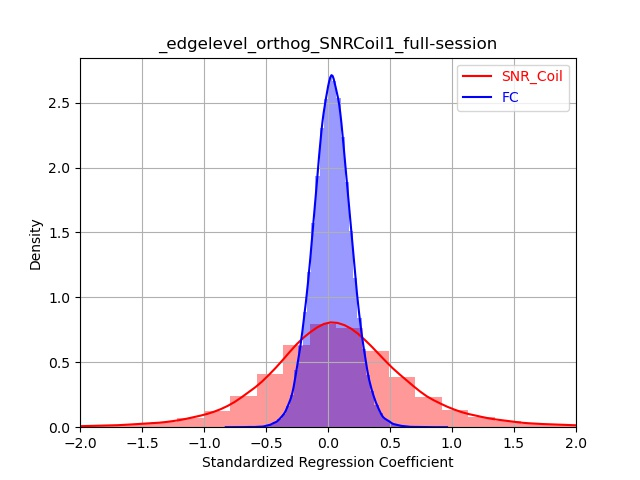
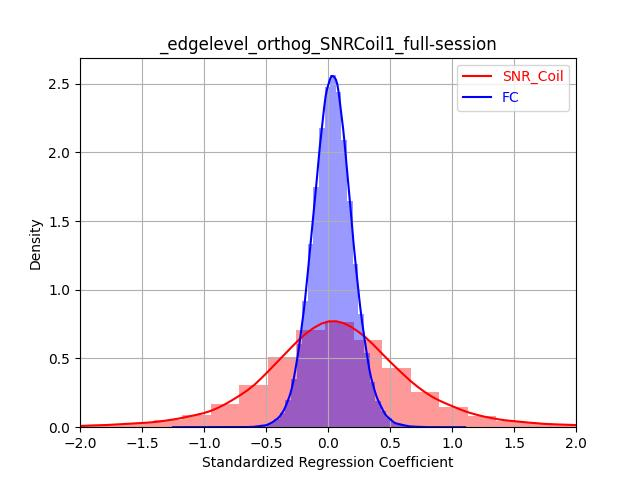
Revisions

diff --git a/REGRESSOR/regressor_py/F_regressors_split.py b/REGRESSOR/regressor_py/F_regressors_split.py
@@ -16,12 +16,12 @@ def loadsnr(snrtrue):
     # Loading SNR values for two splits per session
     # for all sessions of the 48 particpants with both preterm and term sessions
     if snrtrue:
-        snr_all = np.load('/dhcp/fmri_anna_graham/GKgit/snr_npy/192_snrtrue.npy')
+        snr_all = np.load('/dhcp/fmri_anna_graham/GKgit/snr_npy/176_snrtrue.npy')
     else:
-        snr_all = np.load('/dhcp/fmri_anna_graham/GKgit/snr_npy/192hp_snr.npy')
+        snr_all = np.load('/dhcp/fmri_anna_graham/GKgit/snr_npy/176hp_snr.npy')
     mz=snr_all.shape
     print('starting snr_all shape is:')
-    print(mz) #snr_all has shape [48, 2, 2, 387]
+    print(mz) #snr_all has shape [44, 2, 2, 387]
     print()
     nsubj=mz[0]
     nsess=mz[1]
@@ -33,7 +33,7 @@ def loadsnr(snrtrue):
 
     snr_all_reshaped=np.reshape(snr_all, (nsubj*nsess*nhp, nroi))
     print('The shape of snr_all_reshaped is:')
-    print(snr_all_reshaped.shape) # snr_all_reshaped has shape [192, 387]
+    print(snr_all_reshaped.shape) # snr_all_reshaped has shape [176, 387]
     print()
 
     ## Products/edges of SNR values (to match the format of the original snr products used to deduce the OLS parameters c and m):
@@ -42,7 +42,7 @@ def loadsnr(snrtrue):
         snr=snr_all_reshaped[ind,:]
         snrbysnr[ind,:,:]=np.outer(snr, snr) #instead of using snr*snr.T
     print('The shape of snrbysnr is:')
-    print(snrbysnr.shape) # This is [192,387,387]
+    print(snrbysnr.shape) # This is [176,387,387]
     print()
     iu1 = np.triu_indices(nroi, k=1)
     allsnr_iu1=np.array([x[iu1]for x in snrbysnr]) #for each session, selecting the upper triangle of the 387x387 matrix
@@ -71,7 +71,7 @@ def loadsnr(snrtrue):
     return allsnr_sz, nedges
 
 def loadfc():
-    allfc = np.load('/dhcp/fmri_anna_graham/GKgit/finger_npy/192fc.npy')
+    allfc = np.load('/dhcp/fmri_anna_graham/GKgit/finger_npy/176fc.npy')
     sz=allfc.shape
     print('Starting allfc shape is:')
     print(sz)
@@ -341,10 +341,10 @@ if __name__ == '__main__':
 
     orthog=True  #  Turn this of off if using snrfcy!
 
-    snrtrue=False  # If using true snr (True) versus Snr_Coil (False)
+    snrtrue=True  # If using true snr (True) versus Snr_Coil (False)
 
-    sess1=False
-    sess2=True
+    sess1=True
+    sess2=False
 
     splitA=True  # Where SNR (Coil/True) is from a 'different' split as FCy
     splitB=False

diff --git a/REGRESSOR/regressor_py/H_CS_regress_withinsession.py b/REGRESSOR/regressor_py/H_CS_regress_withinsession.py
@@ -13,23 +13,23 @@ import seaborn as sns
 
 
 
-withinfcprem=np.load('/dhcp/fmri_anna_graham/GKgit/finger_npy/48withinfc_splitspreterm.npy')
-withinfcterm=np.load('/dhcp/fmri_anna_graham/GKgit/finger_npy/48withinfc_splitsterm.npy')
+withinfcprem=np.load('/dhcp/fmri_anna_graham/GKgit/finger_npy/44withinfc_splitspreterm.npy')
+withinfcterm=np.load('/dhcp/fmri_anna_graham/GKgit/finger_npy/44withinfc_splitsterm.npy')
 withinfc=np.vstack((withinfcprem,withinfcterm))
 withinfc=withinfc.T
-print(f"This is withinfc shape: {withinfc.shape}") # This is a [48,2] array of CS for preterm and term sessions
+print(f"This is withinfc shape: {withinfc.shape}") # This is a [44,2] array of CS for preterm and term sessions
 print()
 
-snrcoil=np.load('/dhcp/fmri_anna_graham/GKgit/snr_npy/192hp_snr.npy') # This is a [48,2,2,387] array
-snrcoil=np.mean(snrcoil, axis=(2,3)) # of 4d array, this should produce a [48,2] mean per session
+snrcoil=np.load('/dhcp/fmri_anna_graham/GKgit/snr_npy/176hp_snr.npy') # This is a [44,2,2,387] array
+snrcoil=np.mean(snrcoil, axis=(2,3)) # of 4d array, this should produce a [44,2] mean per session
 
-mfwd=np.load('/dhcp/fmri_anna_graham/GKgit/finger_npy/48_fwd_splits.npy') # This is a [48x2x2] array, the 3rd dimension is the mean_fwd splits
+mfwd=np.load('/dhcp/fmri_anna_graham/GKgit/finger_npy/176_mFWD.npy') # This is a [44x2x2] array, the 3rd dimension is the mean_fwd splits
 mfwd=np.mean(mfwd, axis=(2))
 
-### Comparing all 96 sesssions:
-withinfc=np.reshape(withinfc, (48*2))
-snrcoil=np.reshape(snrcoil, (48*2))
-mfwd=np.reshape(mfwd, (48*2))
+### Comparing all 88 sesssions:
+withinfc=np.reshape(withinfc, (44*2))
+snrcoil=np.reshape(snrcoil, (44*2))
+mfwd=np.reshape(mfwd, (44*2))
 
 ### Comparing only preterm/term sessions:
 # withinfc=withinfc[:,0]
@@ -114,6 +114,6 @@ plt.legend([f"Mean SNR-group (p<{str(round(pvalues[1],3))})", \
 # plt.title(f"Relationship to Connectome Stability: \n Standardized Regression Coeffiecients", fontsize=30)
 plt.xticks([])
 plt.yticks([])
-plt.text(-0.25, -0.2, 'Degrees of freedom = 93 \n r2 = 0.176', fontsize = 24) # DOF = 96 observations - 2 parameters -1 = 93
+plt.text(-0.25, -0.2, 'Degrees of freedom = 85 \n r2 = 0.173', fontsize = 24) # DOF = 88 observations - 2 parameters -1 = 85
 plt.savefig(f"/dhcp/fmri_anna_graham/GKgit/head_position/REGRESSOR/regressor_figures/SRC_ALL_split.jpg")
 

diff --git a/REGRESSOR/regressor_py/test222.py b/REGRESSOR/regressor_py/test222.py
@@ -6,9 +6,9 @@ import os
 import nilearn.signal
 import matplotlib.pyplot as plt
 from scipy import stats
-# import pingouin as pg
+import pingouin as pg
 import seaborn as sns
-# from scipy.stats import bootstrap
+from scipy.stats import bootstrap
 
 #####################################
 # arrg=np.array([[[[1],[2]],[[3],[4]]],[[[9],[10]],[[11],[12]]],[[[5],[6]],[[7],[8]]]])
@@ -120,12 +120,12 @@ import seaborn as sns
 #################################
 
 
-# mofc=np.genfromtxt('/dhcp/fmri_anna_graham/GKgit/head_position/FINGER/finger_data/48_mOFC.csv', delimiter=',')
+# mofc=np.genfromtxt('/dhcp/fmri_anna_graham/GKgit/head_position/FINGER/finger_data/44_mOFC.csv', delimiter=',')
 # mofc=mofc[:,1:]
 # mofc=np.ravel(mofc)
 # print(mofc)
 # print(mofc.shape)
-# np.save('/dhcp/fmri_anna_graham/GKgit/finger_npy/48_mofc.npy', mofc)
+# np.save('/dhcp/fmri_anna_graham/GKgit/finger_npy/44_mofc.npy', mofc)
 
 #####################################
 
@@ -175,13 +175,13 @@ import seaborn as sns
 # scanone=np.ravel(scanone)
 # print(scanone)
 # print(scanone.shape)
-# np.save('/dhcp/fmri_anna_graham/GKgit/finger_npy/48_scanone.npy', scanone)
+# np.save('/dhcp/fmri_anna_graham/GKgit/finger_npy/44_scanone.npy', scanone)
 
 # scanint=all[1:,4:]
 # scanint=np.ravel(scanint)
 # print(scanint)
 # print(scanint.shape)
-# np.save('/dhcp/fmri_anna_graham/GKgit/finger_npy/48_scanint.npy', scanint)
+# np.save('/dhcp/fmri_anna_graham/GKgit/finger_npy/44_scanint.npy', scanint)
 
 #########################################################
 
@@ -274,15 +274,16 @@ import seaborn as sns
 
 ########################################
 
-allsessid = {'pid101': ['ses111', 'ses222'], 'pid202': ['ses333', 'ses444'], 'pid303': ['ses555', 'ses666']}
+# allsessid = {'pid101': ['ses111', 'ses222'], 'pid202': ['ses333', 'ses444'], 'pid303': ['ses555', 'ses666']}
 
-print(allsessid)
+# print(allsessid)
 
-del_pid=['pid202']
+# del_pid=['pid202']
 
-for pid in del_pid:
-    del allsessid[pid]
+# for pid in del_pid:
+#     del allsessid[pid]
 
-print('This is deleted allsessid:')
-print(allsessid)
+# print('This is deleted allsessid:')
+# print(allsessid)
 
+###############################################################

diff --git a/REGRESSOR/regressor_py/H_CS_regress_acrosssession.py b/REGRESSOR/regressor_py/H_CS_regress_acrosssession.py
@@ -17,13 +17,13 @@ split=False
 
 # Load arrays:
 if full:
-    withinfc=np.load('/dhcp/fmri_anna_graham/GKgit/finger_npy/48withinfc.npy')
-    snrcoil=np.load('/dhcp/fmri_anna_graham/GKgit/snr_npy/96_snr_416_erode1.npy')
-    snrtrue=np.load('/dhcp/fmri_anna_graham/GKgit/snr_npy/96_snr_true.npy')
-    mfwd=np.load('/dhcp/fmri_anna_graham/GKgit/finger_npy/48_mFWD.npy')
-    scanint=np.load('/dhcp/fmri_anna_graham/GKgit/finger_npy/48_scanint.npy')
-    scanone=np.load('/dhcp/fmri_anna_graham/GKgit/finger_npy/48_scanone.npy')
-    mofc=np.load('/dhcp/fmri_anna_graham/GKgit/finger_npy/48_mofc.npy') ## contains some 'nan' values!
+    withinfc=np.load('/dhcp/fmri_anna_graham/GKgit/finger_npy/44withinfc.npy')
+    snrcoil=np.load('/dhcp/fmri_anna_graham/GKgit/snr_npy/88_snr_416_erode1.npy')
+    snrtrue=np.load('/dhcp/fmri_anna_graham/GKgit/snr_npy/88_snr_true.npy')
+    mfwd=np.load('/dhcp/fmri_anna_graham/GKgit/finger_npy/44_mFWD.npy')
+    scanint=np.load('/dhcp/fmri_anna_graham/GKgit/finger_npy/44_scanint.npy')
+    scanone=np.load('/dhcp/fmri_anna_graham/GKgit/finger_npy/44_scanone.npy')
+    mofc=np.load('/dhcp/fmri_anna_graham/GKgit/finger_npy/44_mofc.npy') ## contains some 'nan' values!
 if split:
     ssssss
 
@@ -168,6 +168,6 @@ plt.legend([f"Mean SNR-group (p<{str(round(pvalues[1],3))})", \
 # plt.title(f"Relationship to Connectome Stability: \n Standardized Regression Coeffiecients", fontsize=30)
 plt.xticks([])
 plt.yticks([])
-plt.text(-0.25, -0.2, 'Degrees of freedom = 36 \n r2 = 0.50', fontsize = 24) # DOF = 42 observations - 5 parameters -1 = 36
+plt.text(-0.25, -0.2, 'Degrees of freedom = 33 \n r2 = 0.49', fontsize = 24) # DOF = 39 observations - 5 parameters -1 = 33
 plt.savefig(f"/dhcp/fmri_anna_graham/GKgit/head_position/REGRESSOR/regressor_figures/SRC_ALL.jpg")
 

diff --git a/REGRESSOR/regressor_py/G_parameters_split.py b/REGRESSOR/regressor_py/G_parameters_split.py
@@ -19,7 +19,7 @@ subjectlevel=False
 
 orthog=True # Set this to False if doing snrfcy!
 
-snrtrue=False  # False = SNRCoil
+snrtrue=True  # False = SNRCoil
 
 split=True  #  Where SNR (Coil/True) is from a 'different' split session to FCy
 
@@ -30,7 +30,7 @@ bothsess=True
 preterm=False
 term=False
 
-bootstrapping=False
+bootstrapping=True
 
 filepath='/dhcp/fmri_anna_graham/GKgit/snr_npy/'
 
@@ -42,8 +42,8 @@ if edgelevel:
     y='298764'  # 74691 x 4directions
 if subjectlevel:
     level='subjectlevel'
-    x='48'
-    y='192'  #48 x 4directions
+    x='44'
+    y='176'  #44 x 4directions
 
 if snrtrue:
     if orthog:

diff --git a/REGRESSOR/regressor_py/G_parameters_full.py b/REGRESSOR/regressor_py/G_parameters_full.py
@@ -11,21 +11,21 @@ import matplotlib.pyplot as plt
 from scipy import stats
 from scipy.stats import bootstrap
 import pingouin as pg
-# import statsmodels.api as sm
+import statsmodels.api as sm
 import seaborn as sns
 
 # SWITCHES:
 edgelevel=True
 subjectlevel=False
 
-snrcoil=True
-snrtrue=False
+snrcoil=False
+snrtrue=True
 
 orthog=True # Set this to False if doing snrfcy!
 
 snrfcy=False  # Only used when both orthog<false> and SNRCoil<True>
 
-bootstrapping=False
+bootstrapping=True
 
 filepath='/dhcp/fmri_anna_graham/GKgit/snr_npy/'
 
